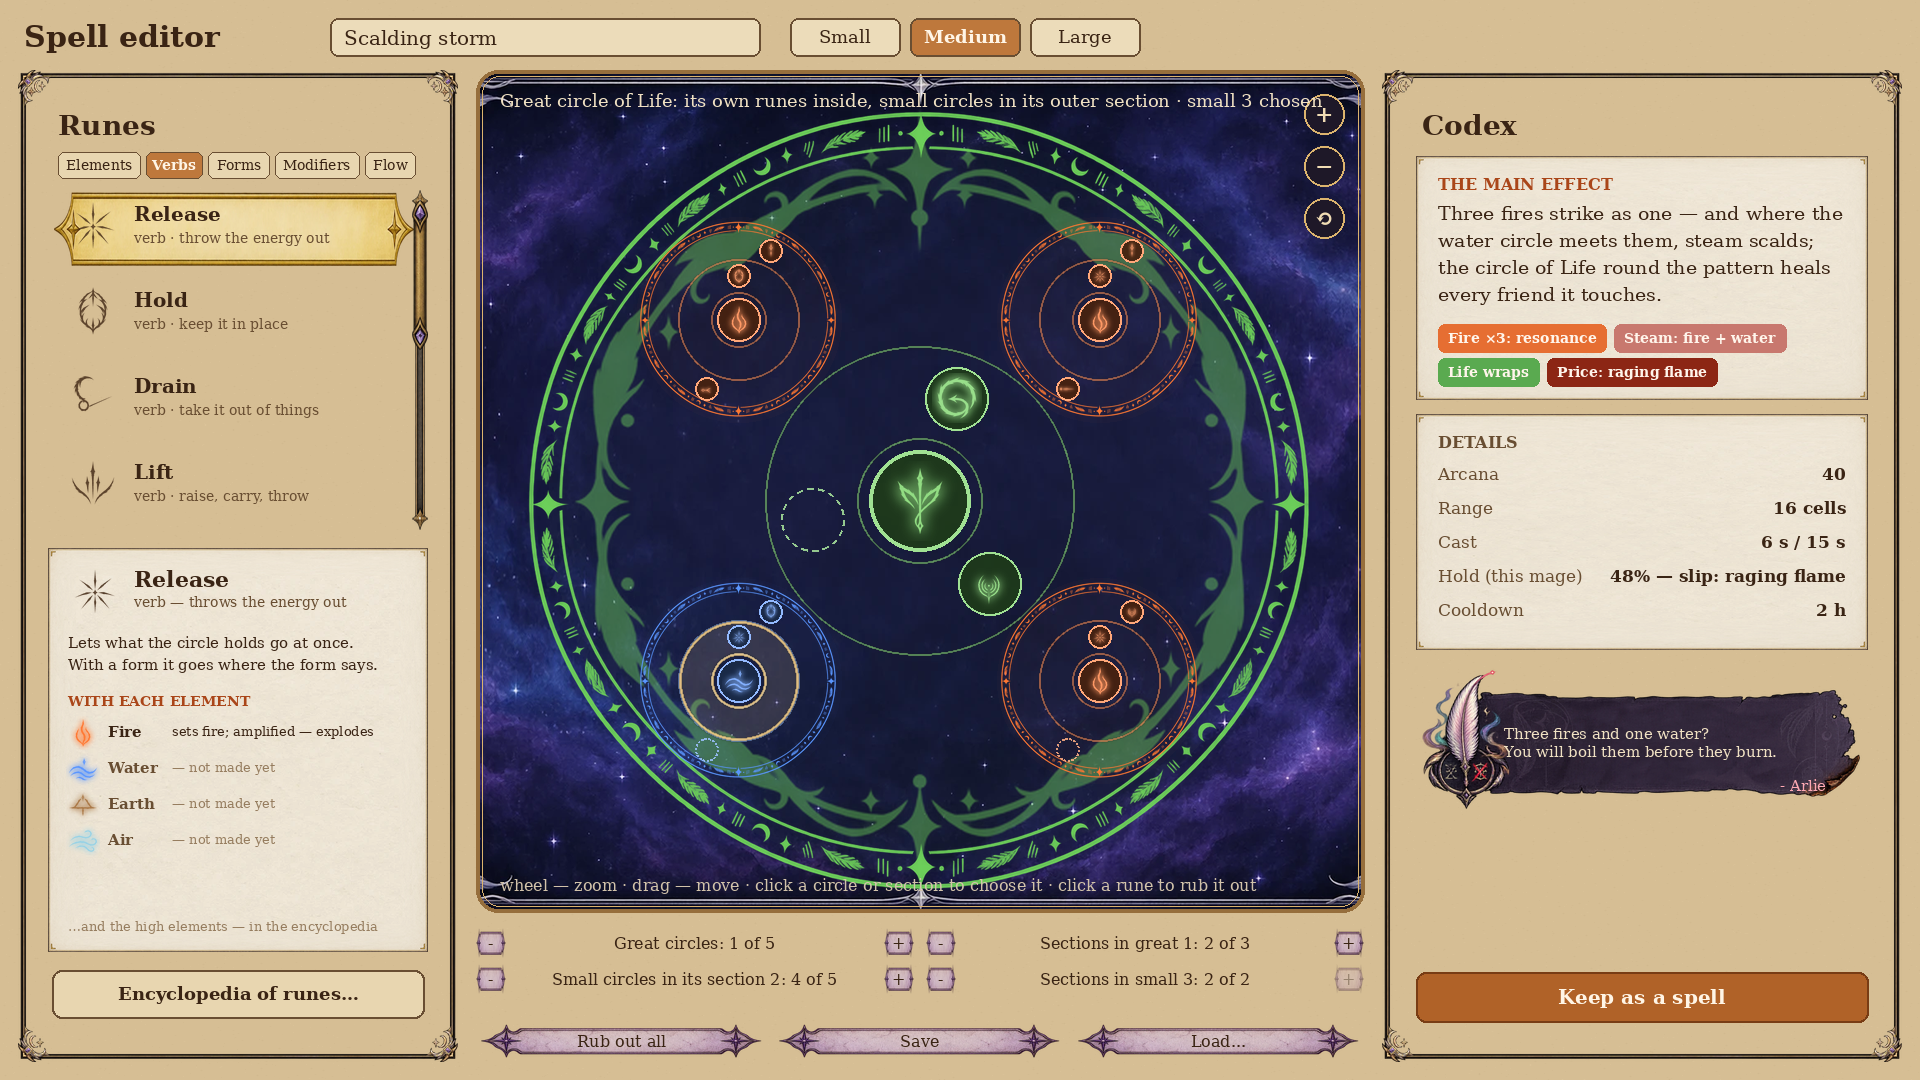
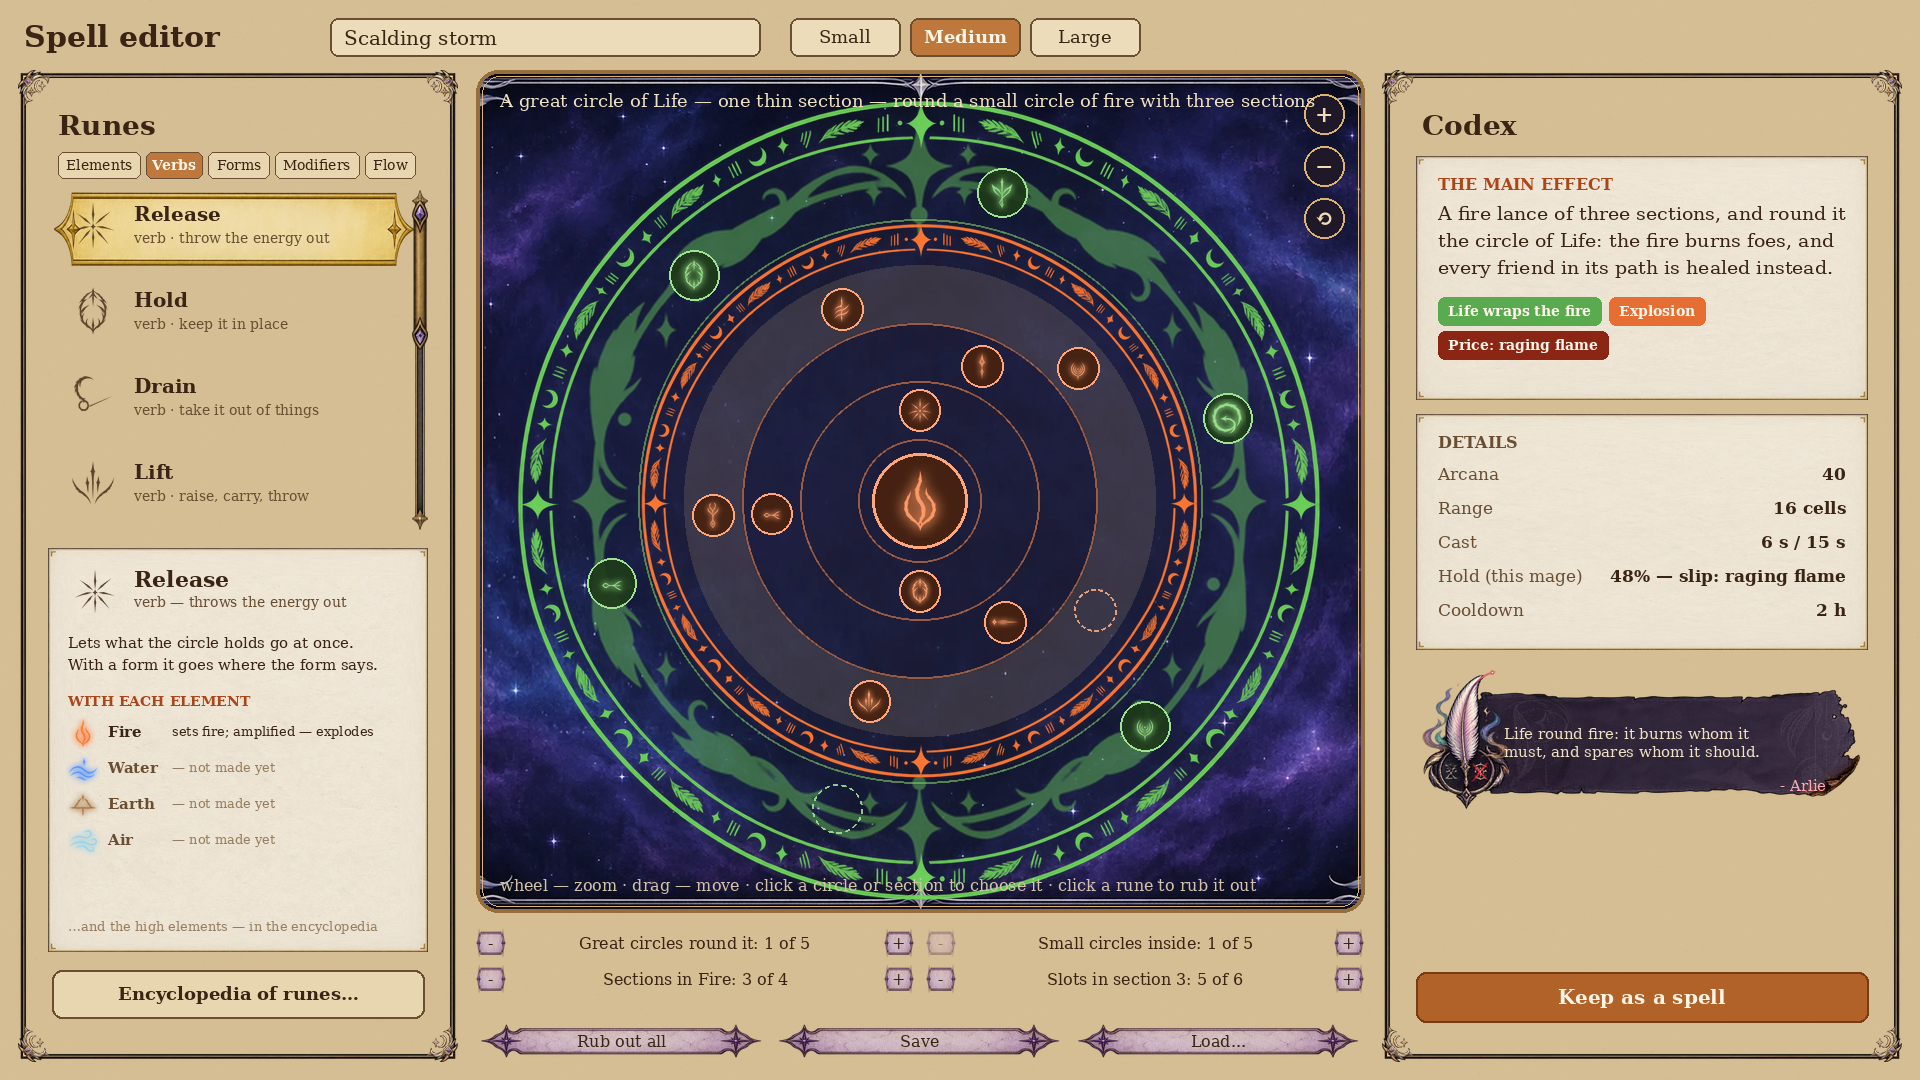
Magic: editor preview v11 (great circles wrap any content, great round great, no rune overlaps)
Claude-Session: https://claude.ai/code/session_01YCWNLtj9zFsogxZeNiDKcG

diff --git a/Framework/Magic/Магия-план.md b/Framework/Magic/Магия-план.md
@@ -1359,3 +1359,5 @@
 - **v10 (автор):** в сплетении руны малых кругов стоят **по секциям, как в обычном круге ритуалистики** (не в ряд). Для пяти больших кругов — другая форма: **кольцо из пяти вокруг сердца** (как пути Песни).
 - **Секции малых кругов остаются.** **Большой круг тоже из секций:** центр — его стихия; **своя секция с рунами** — чистые эффекты течения (без малых кругов — только они); **секция с малыми кругами** — от числа секций зависит, сколько малых внутри; с малыми внутри получается комбинация.
 - Нижняя панель для большого: «Great circles», «Sections in great N», «Small circles in its section K», «Sections in small M».
+- **v11 (автор):** «малый/большой» — это **ранг стихии, а не размер**. Большие материи **обводят** то, что внутри, каким бы большим оно ни было: большой круг с одной тонкой секцией вокруг малого с тремя секциями; **большой вокруг большого** (Пространство вокруг Времени вокруг Жизни вокруг двух малых). Размер узора складывается изнутри наружу.
+- **Руны нигде не налезают друг на друга и на линии**: каждая руна — в середине своей полосы, размер плашки ограничен шириной полосы и расстоянием до соседей; руны большого круга повёрнуты так, чтобы не стоять на четырёх звёздах обода; между ободом одного круга и полосой следующего — зазор. Стихия большого круга — первое место его полосы.
